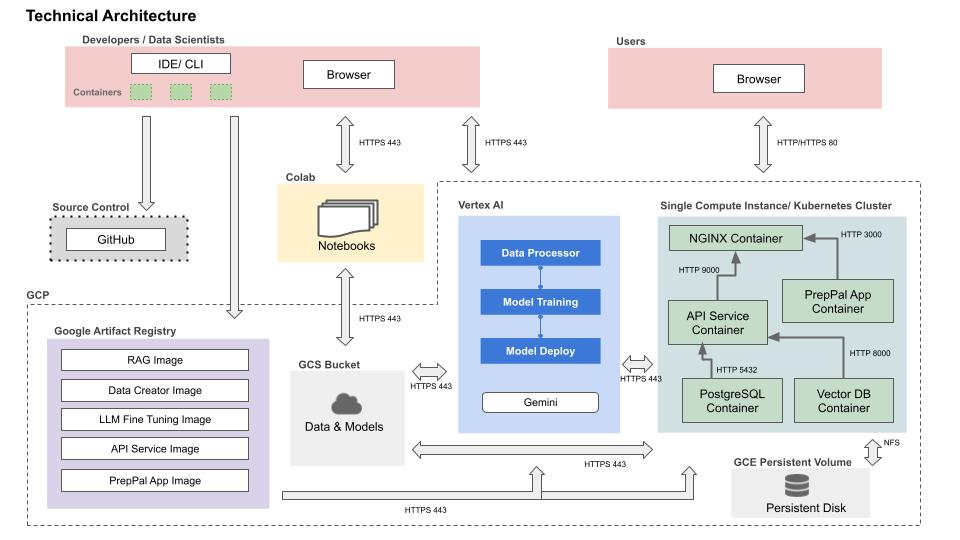
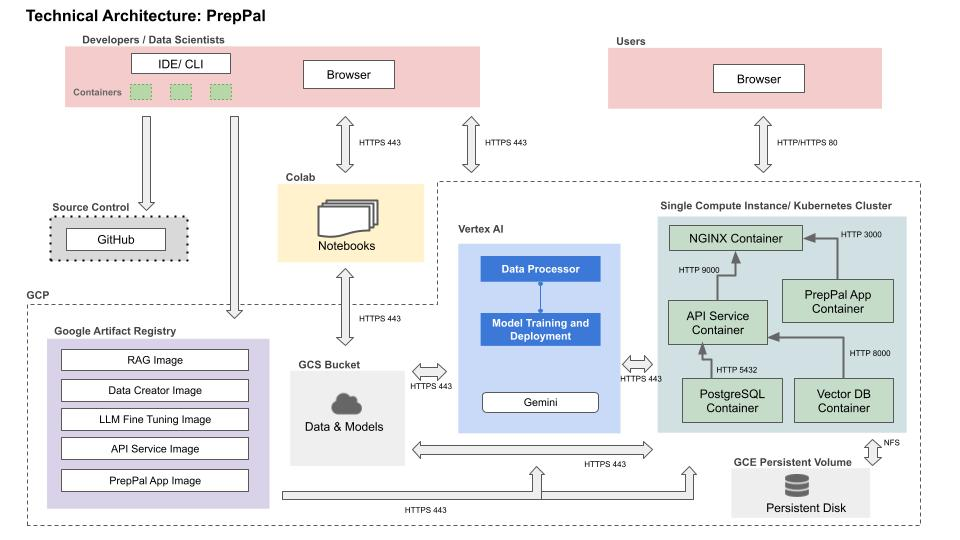
Functional ML workflow

Changed region(s): [[0.4688, 0.3556, 0.6562, 0.6815], [0.2188, 0.0, 0.2812, 0.0593]]

diff --git a/src/deployment/cli.py b/src/deployment/cli.py
@@ -164,18 +164,11 @@ def pipeline():
                 location=GCP_REGION,
                 staging_bucket=f"gs://preppal-data/{GCS_PACKAGE_URI}",
             )
-            .set_display_name("Model Training")
+            .set_display_name("Model Training and Deployment")
             .after(data_processor_task)
         )
-        # Model Deployment
-        model_deploy_task = (
-            model_deploy_job(
-                bucket_name=GCS_BUCKET_NAME,
-            )
-            .set_display_name("Model Deploy")
-            .after(model_training_task)
-        )
-        print("Output Test:", model_deploy_task)  # Prevent Flake8 rror...
+
+        print("Output Test:", model_training_task)  # Prevent Flake8 rror...
 
     # Build yaml file for pipeline
     compiler.Compiler().compile(ml_pipeline, package_path="pipeline.yaml")
@@ -247,12 +240,8 @@ def main(args=None):
         data_processor()
 
     if args.model_training:
-        print("Model Training")
+        print("Model Training and Deployment")
         model_training()
-
-    if args.model_deploy:
-        print("Model Deploy")
-        model_deploy()
 
     if args.pipeline:
         pipeline()
@@ -276,11 +265,6 @@ if __name__ == "__main__":
         "--model_training",
         action="store_true",
         help="Run just Model Training",
-    )
-    parser.add_argument(
-        "--model_deploy",
-        action="store_true",
-        help="Run just Model Deployment",
     )
     parser.add_argument(
         "--pipeline",
